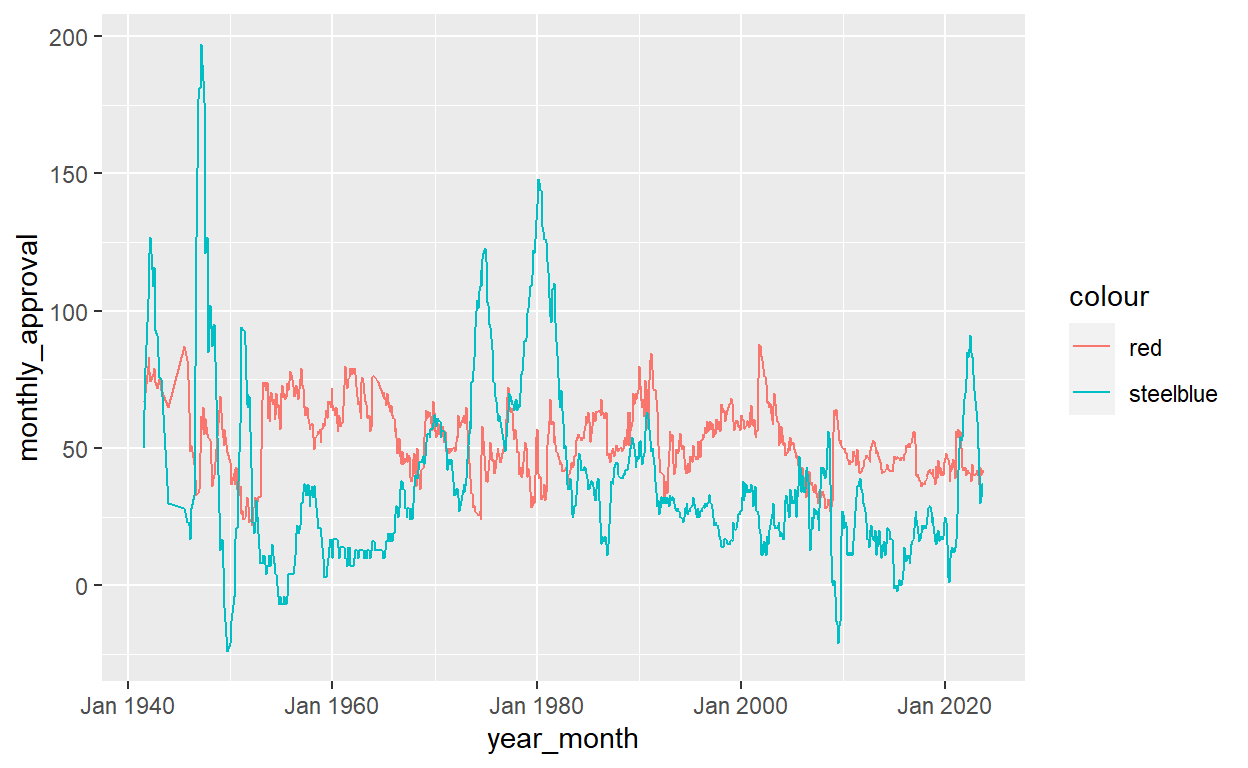
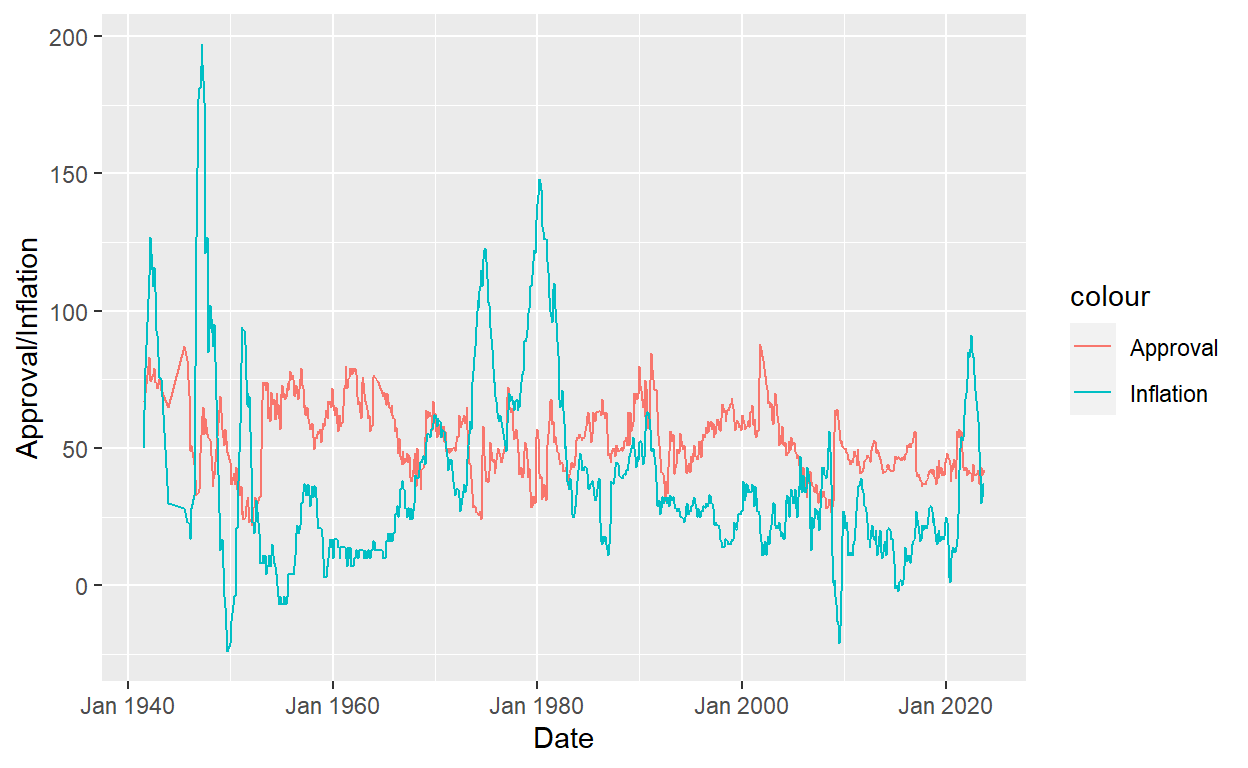
6:14am update

diff --git a/index.html b/index.html
@@ -115,7 +115,7 @@ code span.wa { color: #5e5e5e; font-style: italic; } /* Warning */
   <!--/radix_placeholder_rmarkdown_metadata-->
   
   <script type="text/json" id="radix-resource-manifest">
-  {"type":"character","attributes":{},"value":["data/Gov_50_Inflation.csv","data/Gov_50_Pres_Approval.csv","index_files/anchor-4.2.2/anchor.min.js","index_files/bowser-1.9.3/bowser.min.js","index_files/distill-2.2.21/template.v2.js","index_files/figure-html5/unnamed-chunk-3-1.png","index_files/figure-html5/unnamed-chunk-7-1.png","index_files/figure-html5/unnamed-chunk-8-1.png","index_files/figure-html5/unnamed-chunk-9-1.png","index_files/header-attrs-2.17/header-attrs.js","index_files/header-attrs-2.24/header-attrs.js","index_files/jquery-3.6.0/jquery-3.6.0.js","index_files/jquery-3.6.0/jquery-3.6.0.min.js","index_files/jquery-3.6.0/jquery-3.6.0.min.map","index_files/popper-2.6.0/popper.min.js","index_files/tippy-6.2.7/tippy-bundle.umd.min.js","index_files/tippy-6.2.7/tippy-light-border.css","index_files/tippy-6.2.7/tippy.css","index_files/tippy-6.2.7/tippy.umd.min.js","index_files/webcomponents-2.0.0/webcomponents.js","mikeyan.html","mikeyan_files/anchor-4.2.2/anchor.min.js","mikeyan_files/bowser-1.9.3/bowser.min.js","mikeyan_files/distill-2.2.21/template.v2.js","mikeyan_files/figure-html5/unnamed-chunk-3-1.png","mikeyan_files/figure-html5/unnamed-chunk-7-1.png","mikeyan_files/figure-html5/unnamed-chunk-8-1.png","mikeyan_files/header-attrs-2.24/header-attrs.js","mikeyan_files/jquery-3.6.0/jquery-3.6.0.js","mikeyan_files/jquery-3.6.0/jquery-3.6.0.min.js","mikeyan_files/jquery-3.6.0/jquery-3.6.0.min.map","mikeyan_files/popper-2.6.0/popper.min.js","mikeyan_files/tippy-6.2.7/tippy-bundle.umd.min.js","mikeyan_files/tippy-6.2.7/tippy-light-border.css","mikeyan_files/tippy-6.2.7/tippy.css","mikeyan_files/tippy-6.2.7/tippy.umd.min.js","mikeyan_files/webcomponents-2.0.0/webcomponents.js"]}
+  {"type":"character","attributes":{},"value":["data/Gov_50_Inflation.csv","data/Gov_50_Pres_Approval.csv","index_files/anchor-4.2.2/anchor.min.js","index_files/bowser-1.9.3/bowser.min.js","index_files/distill-2.2.21/template.v2.js","index_files/figure-html5/unnamed-chunk-3-1.png","index_files/figure-html5/unnamed-chunk-7-1.png","index_files/figure-html5/unnamed-chunk-8-1.png","index_files/figure-html5/unnamed-chunk-9-1.png","index_files/header-attrs-2.17/header-attrs.js","index_files/header-attrs-2.24/header-attrs.js","index_files/jquery-3.6.0/jquery-3.6.0.js","index_files/jquery-3.6.0/jquery-3.6.0.min.js","index_files/jquery-3.6.0/jquery-3.6.0.min.map","index_files/popper-2.6.0/popper.min.js","index_files/tippy-6.2.7/tippy-bundle.umd.min.js","index_files/tippy-6.2.7/tippy-light-border.css","index_files/tippy-6.2.7/tippy.css","index_files/tippy-6.2.7/tippy.umd.min.js","index_files/webcomponents-2.0.0/webcomponents.js"]}
   </script>
   <!--radix_placeholder_navigation_in_header-->
   <!--/radix_placeholder_navigation_in_header-->
@@ -1562,7 +1562,7 @@ code span.wa { color: #5e5e5e; font-style: italic; } /* Warning */
 <span><span class='va'>approval</span> <span class='op'>&lt;-</span> <span class='fu'><a href='https://readr.tidyverse.org/reference/read_delim.html'>read_csv</a></span><span class='op'>(</span><span class='st'>"data/Gov_50_Pres_Approval.csv"</span><span class='op'>)</span></span></code></pre>
 </div>
 </div>
-<h2 id="approval-rating-example-approval-rating-during-trumps-presidency">Approval Rating Example: Approval Rating during Trump’s Presidency</h2>
+<h2 id="approval-rating-example-approval-rating-during-trumps-presidency">Approval Rating Example: Approval Rating During Trump’s Presidency</h2>
 <div class="layout-chunk" data-layout="l-body">
 <div class="sourceCode">
 <pre class="sourceCode r"><code class="sourceCode r"><span><span class='va'>approval</span> <span class='op'>|&gt;</span></span>
@@ -1574,7 +1574,7 @@ code span.wa { color: #5e5e5e; font-style: italic; } /* Warning */
 </div>
 <p><img src="index_files/figure-html5/unnamed-chunk-3-1.png" width="624" /></p>
 </div>
-<h2 id="code-for-joining-the-approval-dataset-and-the-inflation-dataset">Code for joining the Approval dataset and the Inflation dataset</h2>
+<h2 id="code-for-joining-the-approval-dataset-and-the-inflation-dataset">Code for Joining the Approval Dataset and the Inflation Dataset</h2>
 <div class="layout-chunk" data-layout="l-body">
 <div class="sourceCode">
 <pre class="sourceCode r"><code class="sourceCode r"><span><span class='va'>inflation</span> <span class='op'>&lt;-</span> <span class='va'>inflation</span> <span class='op'>|&gt;</span></span>
@@ -1592,26 +1592,8 @@ code span.wa { color: #5e5e5e; font-style: italic; } /* Warning */
 <pre class="sourceCode r"><code class="sourceCode r"><span><span class='va'>approval</span> <span class='op'>&lt;-</span> <span class='va'>approval</span> <span class='op'>|&gt;</span></span>
 <span>  <span class='fu'><a href='https://dplyr.tidyverse.org/reference/mutate.html'>mutate</a></span><span class='op'>(</span>year_month <span class='op'>=</span> <span class='fu'><a href='https://rdrr.io/pkg/zoo/man/yearmon.html'>as.yearmon</a></span><span class='op'>(</span><span class='va'>`Start Date`</span>,<span class='st'>"%Y %b"</span><span class='op'>)</span><span class='op'>)</span> <span class='op'>|&gt;</span></span>
 <span>  <span class='fu'><a href='https://dplyr.tidyverse.org/reference/group_by.html'>group_by</a></span><span class='op'>(</span><span class='va'>year_month</span><span class='op'>)</span> <span class='op'>|&gt;</span></span>
-<span>  <span class='fu'><a href='https://dplyr.tidyverse.org/reference/mutate.html'>mutate</a></span><span class='op'>(</span>monthly_approval <span class='op'>=</span> <span class='fu'><a href='https://rdrr.io/r/base/mean.html'>mean</a></span><span class='op'>(</span><span class='va'>Approving</span><span class='op'>)</span><span class='op'>)</span></span>
-<span><span class='va'>approval</span></span></code></pre>
+<span>  <span class='fu'><a href='https://dplyr.tidyverse.org/reference/mutate.html'>mutate</a></span><span class='op'>(</span>monthly_approval <span class='op'>=</span> <span class='fu'><a href='https://rdrr.io/r/base/mean.html'>mean</a></span><span class='op'>(</span><span class='va'>Approving</span><span class='op'>)</span><span class='op'>)</span></span></code></pre>
 </div>
-<pre><code># A tibble: 1,890 × 10
-# Groups:   year_month [884]
-   President `Start Date` `End Date` Approving Disapproving
-   &lt;chr&gt;     &lt;date&gt;       &lt;date&gt;         &lt;dbl&gt;        &lt;dbl&gt;
- 1 Biden     2023-10-02   2023-10-23        37           59
- 2 Biden     2023-09-01   2023-09-23        41           58
- 3 Biden     2023-08-01   2023-08-23        42           53
- 4 Biden     2023-07-03   2023-07-27        40           55
- 5 Biden     2023-06-01   2023-06-22        43           54
- 6 Biden     2023-05-01   2023-05-24        39           57
- 7 Biden     2023-04-03   2023-04-25        37           59
- 8 Biden     2023-03-01   2023-03-23        40           56
- 9 Biden     2023-02-01   2023-02-23        42           54
-10 Biden     2023-01-02   2023-01-22        41           54
-# ℹ 1,880 more rows
-# ℹ 5 more variables: `Unsure/NoData` &lt;dbl&gt;, Inaug &lt;date&gt;,
-#   Days &lt;dbl&gt;, year_month &lt;yearmon&gt;, monthly_approval &lt;dbl&gt;</code></pre>
 </div>
 <div class="layout-chunk" data-layout="l-body">
 <div class="sourceCode">
@@ -1621,7 +1603,7 @@ code span.wa { color: #5e5e5e; font-style: italic; } /* Warning */
 <span>  <span class='fu'><a href='https://dplyr.tidyverse.org/reference/distinct.html'>distinct</a></span><span class='op'>(</span><span class='va'>year_month</span>, .keep_all <span class='op'>=</span> <span class='cn'>TRUE</span><span class='op'>)</span></span></code></pre>
 </div>
 </div>
-<h2 id="inflation-example-inflation-rate-during-obamas-presidency">Inflation Example: Inflation Rate during Obama’s Presidency</h2>
+<h2 id="inflation-example-inflation-rate-during-obamas-presidency">Inflation Example: Inflation Rate During Obama’s Presidency</h2>
 <div class="layout-chunk" data-layout="l-body">
 <div class="sourceCode">
 <pre class="sourceCode r"><code class="sourceCode r"><span><span class='va'>approval</span> <span class='op'>|&gt;</span></span>
@@ -1643,15 +1625,21 @@ code span.wa { color: #5e5e5e; font-style: italic; } /* Warning */
 </div>
 <p><img src="index_files/figure-html5/unnamed-chunk-8-1.png" width="624" /></p>
 </div>
+<h2 id="overall-trend-since-fdr">Overall Trend Since FDR</h2>
 <div class="layout-chunk" data-layout="l-body">
 <div class="sourceCode">
 <pre class="sourceCode r"><code class="sourceCode r"><span><span class='va'>approval</span> <span class='op'>|&gt;</span></span>
 <span>  <span class='fu'><a href='https://ggplot2.tidyverse.org/reference/ggplot.html'>ggplot</a></span><span class='op'>(</span><span class='op'>)</span> <span class='op'>+</span></span>
-<span>  <span class='fu'><a href='https://ggplot2.tidyverse.org/reference/geom_path.html'>geom_line</a></span><span class='op'>(</span><span class='fu'><a href='https://ggplot2.tidyverse.org/reference/aes.html'>aes</a></span><span class='op'>(</span>x<span class='op'>=</span> <span class='va'>year_month</span>, y <span class='op'>=</span> <span class='va'>monthly_approval</span>, color <span class='op'>=</span> <span class='st'>"red"</span><span class='op'>)</span><span class='op'>)</span> <span class='op'>+</span></span>
-<span>  <span class='fu'><a href='https://ggplot2.tidyverse.org/reference/geom_path.html'>geom_line</a></span><span class='op'>(</span><span class='fu'><a href='https://ggplot2.tidyverse.org/reference/aes.html'>aes</a></span><span class='op'>(</span>x<span class='op'>=</span> <span class='va'>year_month</span>, y <span class='op'>=</span> <span class='va'>inflation</span> <span class='op'>*</span> <span class='fl'>10</span>, color <span class='op'>=</span> <span class='st'>"steelblue"</span><span class='op'>)</span><span class='op'>)</span></span></code></pre>
+<span>  <span class='fu'><a href='https://ggplot2.tidyverse.org/reference/geom_path.html'>geom_line</a></span><span class='op'>(</span><span class='fu'><a href='https://ggplot2.tidyverse.org/reference/aes.html'>aes</a></span><span class='op'>(</span>x<span class='op'>=</span> <span class='va'>year_month</span>, y <span class='op'>=</span> <span class='va'>monthly_approval</span>, color <span class='op'>=</span> <span class='st'>"Approval"</span><span class='op'>)</span><span class='op'>)</span> <span class='op'>+</span></span>
+<span>  <span class='fu'><a href='https://ggplot2.tidyverse.org/reference/geom_path.html'>geom_line</a></span><span class='op'>(</span><span class='fu'><a href='https://ggplot2.tidyverse.org/reference/aes.html'>aes</a></span><span class='op'>(</span>x<span class='op'>=</span> <span class='va'>year_month</span>, y <span class='op'>=</span> <span class='va'>inflation</span> <span class='op'>*</span> <span class='fl'>10</span>, color <span class='op'>=</span> <span class='st'>"Inflation"</span><span class='op'>)</span><span class='op'>)</span> <span class='op'>+</span></span>
+<span>  <span class='fu'><a href='https://ggplot2.tidyverse.org/reference/labs.html'>labs</a></span><span class='op'>(</span>x <span class='op'>=</span> <span class='st'>"Date"</span>,</span>
+<span>       y <span class='op'>=</span> <span class='st'>"Approval/Inflation"</span><span class='op'>)</span></span></code></pre>
 </div>
 <p><img src="index_files/figure-html5/unnamed-chunk-9-1.png" width="624" /></p>
 </div>
+<p>The graph above plots the presidential approval rating and the national inflation rate from January 1940 to October 2023. The approval rating is reflected by the scale on the y-axis and ranges from 0-100. The inflation rate does not follow the same scale; it is adjusted for better visualization and vertical comparison with the corresponding approval rating.</p>
+<p>Even though it is certain that there does not exist a causal relationship between approval rating and inflation rate, one can observe from the graph and hypothesize that these two variables exhibit an inverse correlation: on average, approval rating moves in the opposite direction of inflation.</p>
+<p>There are several spikes in the graph that may elucidate the relationship we described above. For example, in the years post-WW2 and near 1950, there was a significant spike in inflation rate. In the meantime, the president at the time, Truman, suffered a huge blow at public approval. Another spike occurred in the mid-late 1970s, when inflation rate skyrocketed. This was perhaps due to the 1970s oil embargo that had a tremendous impact on the American economy. With increasing inflation rate, the approval rating also went down dramatically. One can also observe that during the periods 1955-1968, 1992-2008, 2010-2020, the inflation rate and approval rate seem to be a vertical mirror of one another, which could also suggest an inverse correlation between these two variables.</p>
 <div class="layout-chunk" data-layout="l-body">
 <div class="sourceCode">
 <pre class="sourceCode r"><code class="sourceCode r"><span><span class='va'>fit</span> <span class='op'>&lt;-</span> <span class='fu'><a href='https://rdrr.io/r/stats/lm.html'>lm</a></span><span class='op'>(</span><span class='va'>monthly_approval</span> <span class='op'>~</span> <span class='va'>inflation</span>, data <span class='op'>=</span> <span class='va'>approval2000</span><span class='op'>)</span></span>
@@ -1686,7 +1674,7 @@ Residual standard error: 10.39 on 282 degrees of freedom
 Multiple R-squared:  0.06316,   Adjusted R-squared:  0.05984 
 F-statistic: 19.01 on 1 and 282 DF,  p-value: 1.823e-05</code></pre>
 </div>
-<div class="sourceCode" id="cb4"><pre class="sourceCode r distill-force-highlighting-css"><code class="sourceCode r"></code></pre></div>
+<div class="sourceCode" id="cb3"><pre class="sourceCode r distill-force-highlighting-css"><code class="sourceCode r"></code></pre></div>
 <!--radix_placeholder_article_footer-->
 <!--/radix_placeholder_article_footer-->
 </div>
